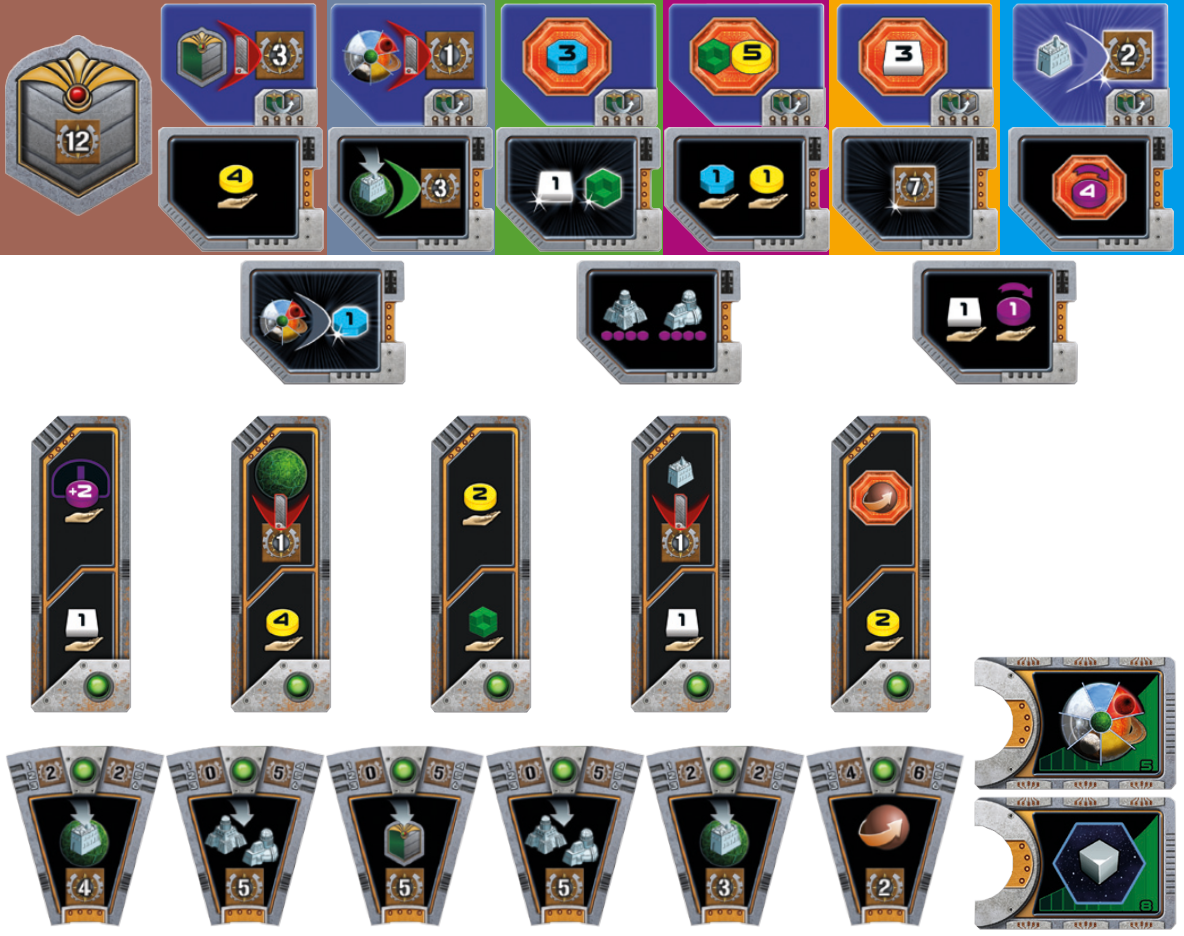
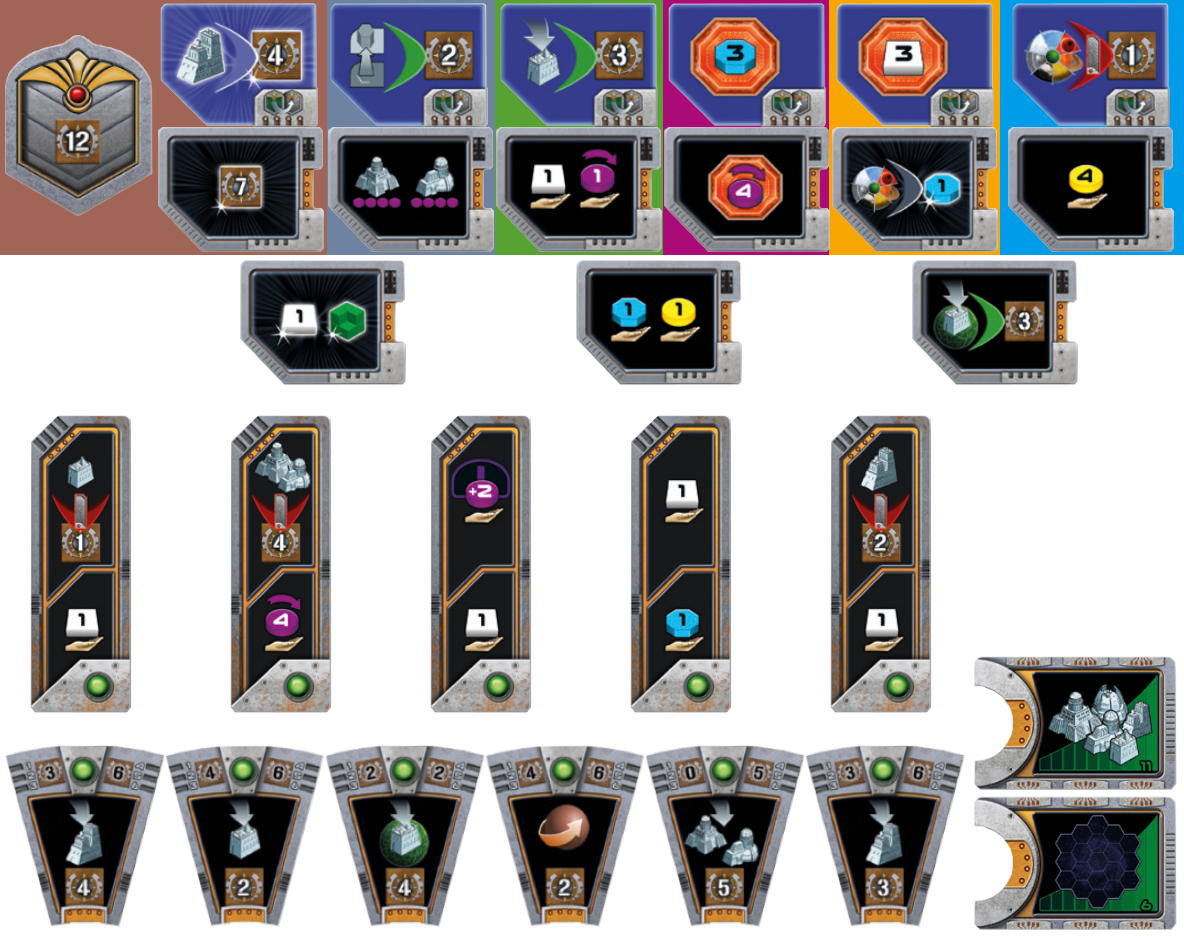
finished both automa research actions (highest/random)

diff --git a/automa.py b/automa.py
@@ -1,3 +1,4 @@
+import itertools
 import random
 
 import pygame
@@ -933,6 +934,10 @@ class Automa:
         # Errors are corrected at runtime so i can ignore this.
         # pylint: disable=no-member
 
+        # TODO CRITICAL still need to test if the cycling works properly when
+        # the number selection number is higher than the length of the
+        # available research tracks list.
+
         all_levels = [
             self.terraforming,
             self.navigation,
@@ -972,119 +977,76 @@ class Automa:
         # Use Numbered Selection as a tiebreaker.
         if len(highest_track) > 1:
             direction = self.support_card.support[3][:-1]
-            amount = self.support_card.support[3][-1]
+            amount = int(self.support_card.support[3][-1])
 
             if direction == "left":
-                reverse = True
-                # highest_track.reverse()
-            else:
-                reverse = False
-            
-            # itertools.chain,from_iterable itertools.repeat
+                highest_track.reverse()
 
-        automa_level_pos = [
-            "terraforming",
-            "navigation",
-            "a_i",
-            "gaia_project",
-            "economy",
-            "science",
-        ]
+            # Use itertools.cycle to keep cycling all the highest tracks until
+            # the Numbered Selection number is reached.
+            cycling_highest_track = itertools.cycle(highest_track)
+            for i, track in enumerate(cycling_highest_track, start=1):
+                if i == amount:
+                    highest_track = [track]
+                    break
+
+        chosen_track = highest_track[0]
+
+        # Alter the chosen_track name to be in the same format as the automa
+        # research level variable format.
+        chosen_track_name = chosen_track.name.lower().replace(' ', '_')
 
         # Remove automa from the current level's list of players.
+        current_level = eval(f"self.{chosen_track_name}")
         current_level.remove(self.faction.name)
 
         # Add the Automa to the next level on the level's list of players.
-        exec(f"track.level{num + 1}.add(self.faction.name)")
+        exec(
+            f"chosen_track.level{highest_level_num + 1}.add(self.faction.name)"
+        )
 
         # Add the level to the Automa object's corresponding research
         # property.
-        exec(f"self.{automa_level_pos[choice - 1]} = track.level{num + 1}")
+        exec(
+            f"self.{chosen_track_name} "
+            f"= chosen_track.level{highest_level_num + 1}")
 
         print(research_board)
         print(f"Automa has researched {track.name}.")
 
     def random_research(self, research_board):
-        pass
+        direction = self.support_card.support[3][:-1]
+        amount = int(self.support_card.support[3][-1])
 
-    def research(self, research_board):
-        levels = [
-            self.terraforming,
-            self.navigation,
-            self.a_i,
-            self.gaia_project,
-            self.economy,
-            self.science,
-        ]
+        research_tracks = research_board.tech_tracks
 
-        print("\nOn what research track does the Automa go up?")
-        print(research_board)
-        options = (
-            "Please type the corresponding number or type 7 if you chose the "
-            "wrong action.\n"
-        )
-        while True:
-            choice = input(f"{options}--> ")
+        if direction == "left":
+            research_tracks.reverse()
 
-            if choice in ["1", "2", "3", "4", "5", "6"]:
-                choice = int(choice)
-                current_level = levels[choice - 1]
-                track = research_board.tech_tracks[choice - 1]
+        for i, track in enumerate(research_tracks, start=1):
+            if i == amount:
+                chosen_track = track
+                break
 
-                # num = Number of the level before completing the research.
-                num = int(current_level.name[-1])
-            elif choice == "7":
-                raise e.BackToActionSelection
-            else:
-                print("! Please only type 1-6")
-                continue
-
-            if num == 4:
-                # Automa removes the advanced technology if there still is one.
-                if track.advanced:
-                    print(
-                        f"Automa has taken the {track.advanced} "
-                        "Advanced Technology tile."
-                    )
-                    track.advanced = False
-                    return
-                else:
-                    # Check if there is a player on level 5 when there is no
-                    # tile present.
-                    next_level = track.level5
-                    if next_level.players:
-                        print(
-                            "! There is already a player on level 5. The "
-                            f"Automa can't research {track.name}. Please "
-                            "choose the next technology track."
-                        )
-                        continue
-            elif num == 5:
-                print(
-                    "! Automa is already at the maximum level of 5. Please "
-                    "choose the next technology track."
-                )
-                continue
-            break
-
-        automa_level_pos = [
-            "terraforming",
-            "navigation",
-            "a_i",
-            "gaia_project",
-            "economy",
-            "science",
-        ]
+        # Alter the chosen_track name to be in the same format as the automa
+        # research level variable format.
+        chosen_track_name = chosen_track.name.lower().replace(' ', '_')
 
         # Remove automa from the current level's list of players.
+        current_level = eval(f"self.{chosen_track_name}")
         current_level.remove(self.faction.name)
 
         # Add the Automa to the next level on the level's list of players.
-        exec(f"track.level{num + 1}.add(self.faction.name)")
+        exec(
+            f"chosen_track.level{int(current_level.name[-1]) + 1}"
+            ".add(self.faction.name)"
+        )
 
         # Add the level to the Automa object's corresponding research
         # property.
-        exec(f"self.{automa_level_pos[choice - 1]} = track.level{num + 1}")
+        exec(
+            f"self.{chosen_track_name} "
+            f"= chosen_track.level{int(current_level.name[-1]) + 1}")
 
         print(research_board)
         print(f"Automa has researched {track.name}.")
